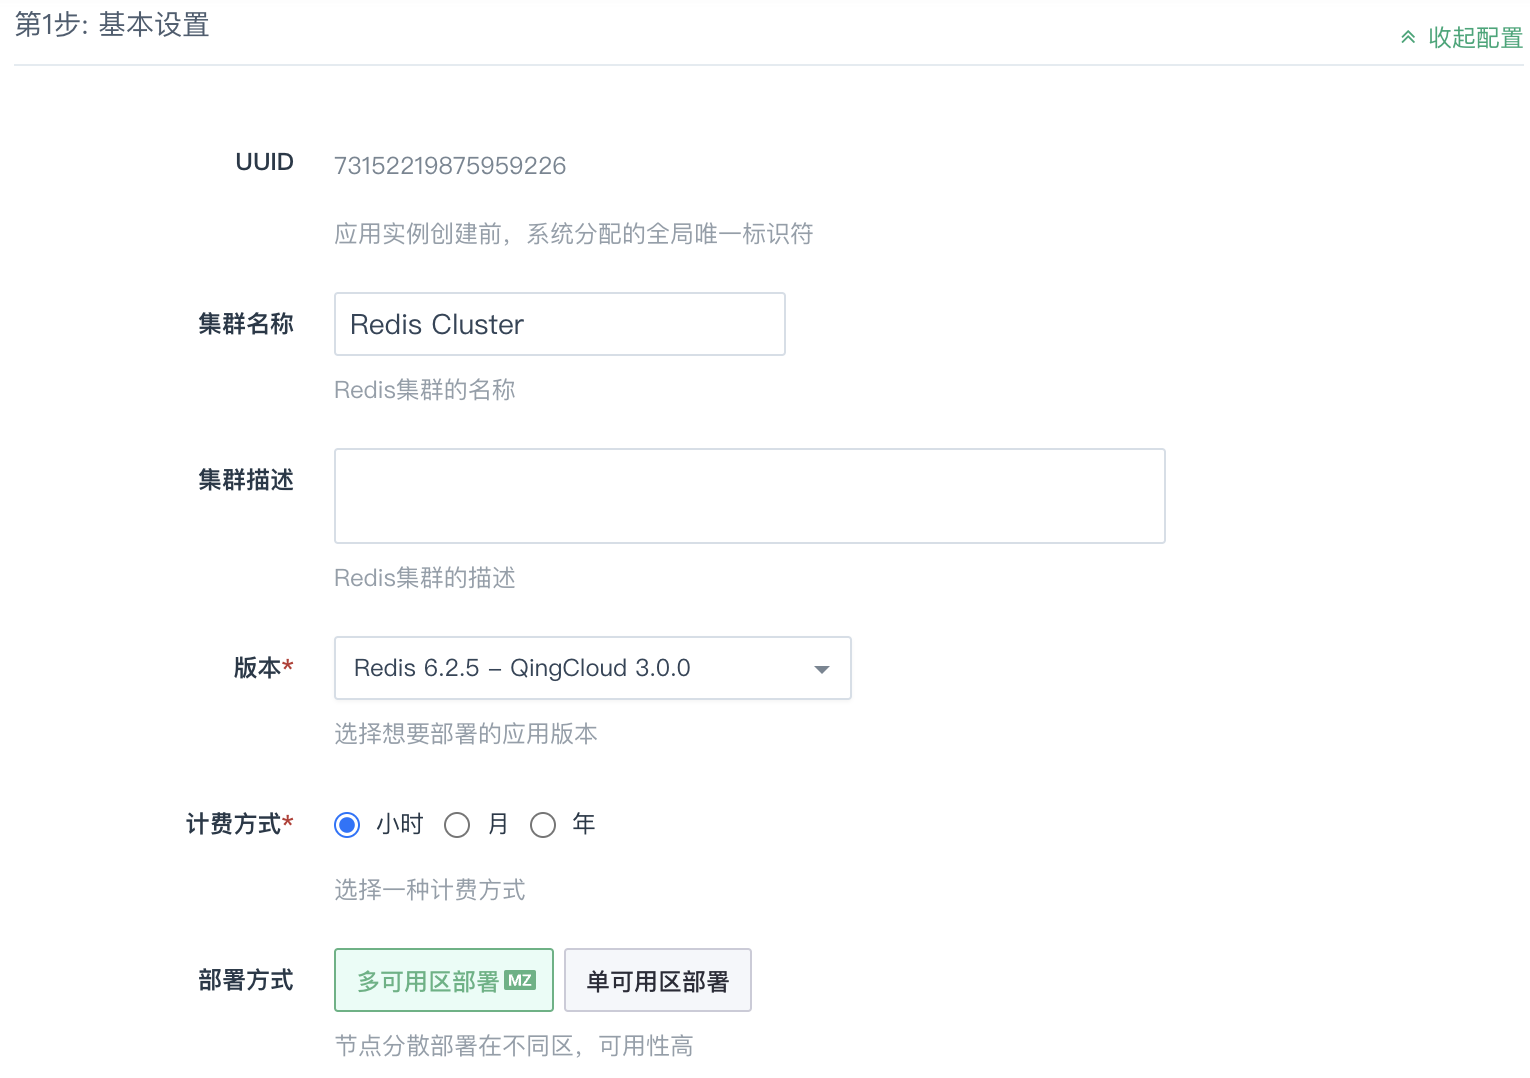
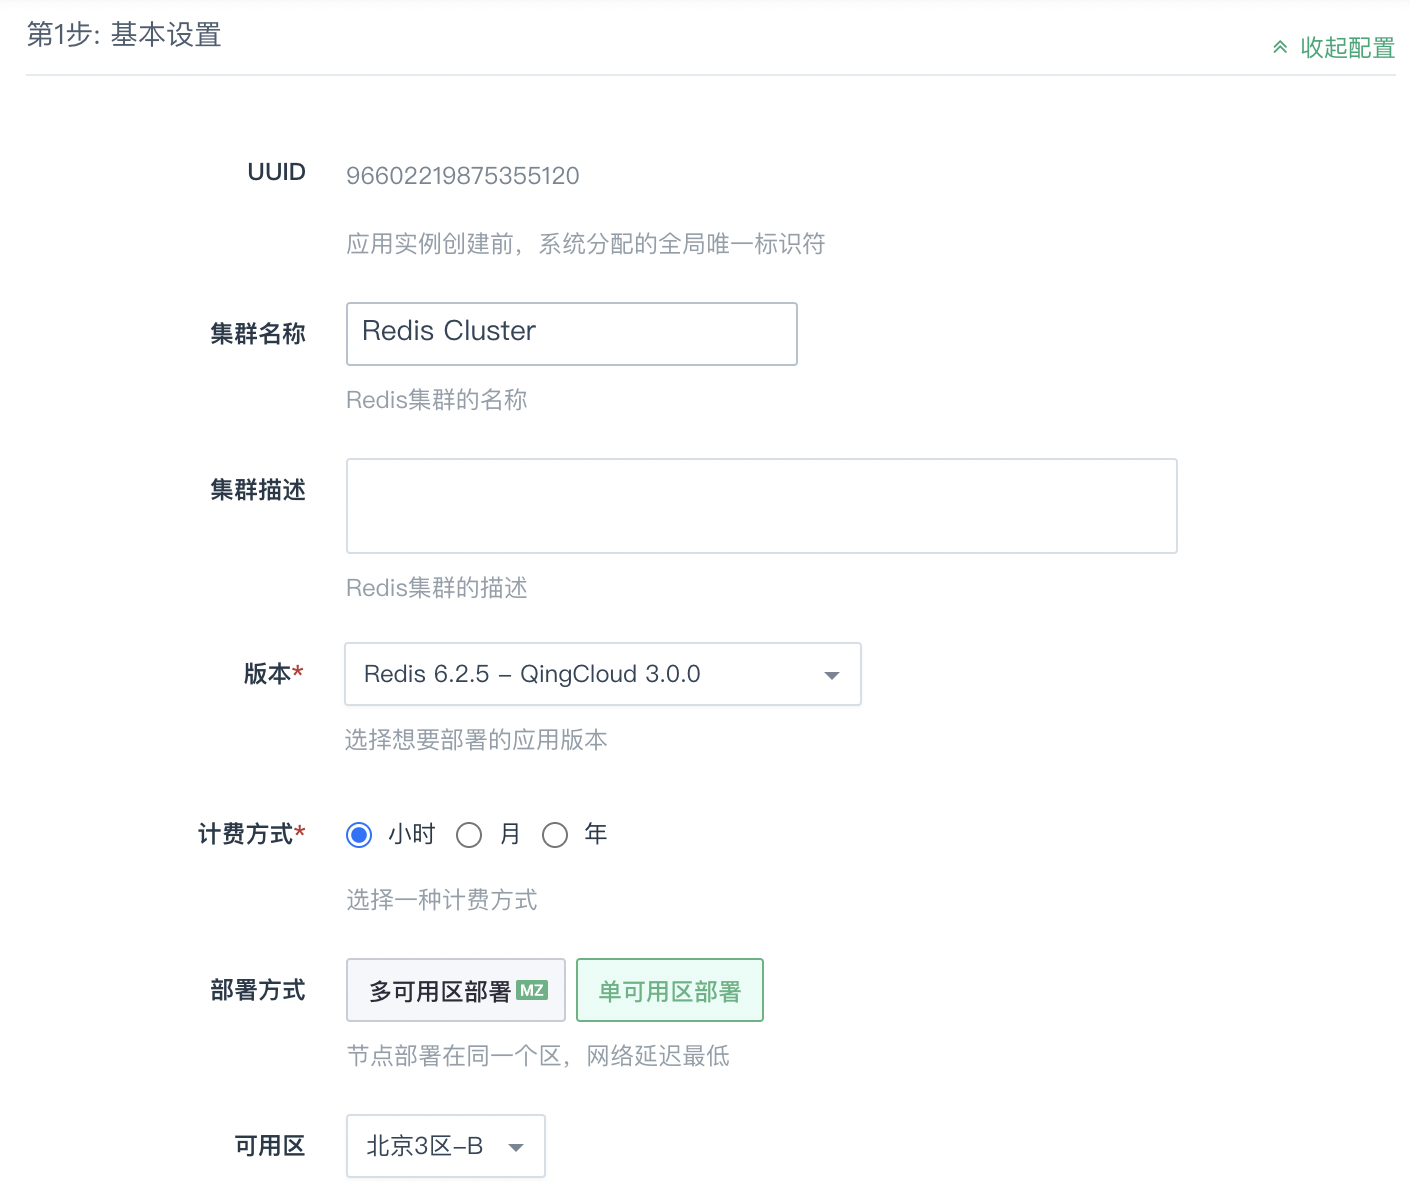
update

diff --git a/content/database/redis_cluster/perfwp/test_method.md b/content/database/redis_cluster/perfwp/test_method.md
@@ -41,7 +41,7 @@ keywords: redis cluster, 性能测试, 测试方法
 | <span style="display:inline-block;width:80px">参数</span> | 参数说明                                                     |
 | --------------------------------------------------------- | ------------------------------------------------------------ |
 | **-h**                                                    | Redis Cluster 实例的内网连接地址。请参见[获取连接地址](../../quickstart/cnect_redis/#获取连接地址)。 |
-| **-p**                                                    | Redis Cluster 实例的服务端口，默认为6379。                   |
+| **-p**                                                    | Redis Cluster 实例的服务端口，默认为 6379，若启用了 TLS，则为 TLS 端口。 |
 | **-a**                                                    | Redis Cluster 实例的密码。无密码时可不填写。<br/><div style="background-color: #D8ECDE; padding: 10px 24px; margin: 10px 0; border-left: 3px solid #00a971;">  <b>说明</b><br/>   如果是使用默认账号，直接填写`<password>`即可。如果是新创建的账号，则填写`<user>:<password>`。例如：账号为`test`，密码为`redis@123`，则填写 `test:redis@123`。</div> |
 | **-n**                                                    | 测试的总请求数量，可设置较大的值以持续压测。                 |
 | **-r**                                                    | 使用随机 key 数量，即使用多少个不同 key。                    |

diff --git a/content/database/redis_cluster/quickstart/create_redis.md b/content/database/redis_cluster/quickstart/create_redis.md
@@ -38,7 +38,7 @@ draft: false
 
    	▪ 计费方式：计费说明，请参考[费用说明](/database/redis_cluster/billing/price/)。
 
-   	▪ 部署方式：如果业务需要同城多活，建议选择**多可用区部署**；如果主机之间需要较低的网络时延，则建议选择**单可用区部署**。
+   	▪ 部署方式：为达到 Redis 最佳性能，推荐使用**单可用区部署**，主机之间网络时延最低；但若您对数据安全及容灾要求较高，则可以选择**多可用区部署**。
 
    > **说明**
    >
